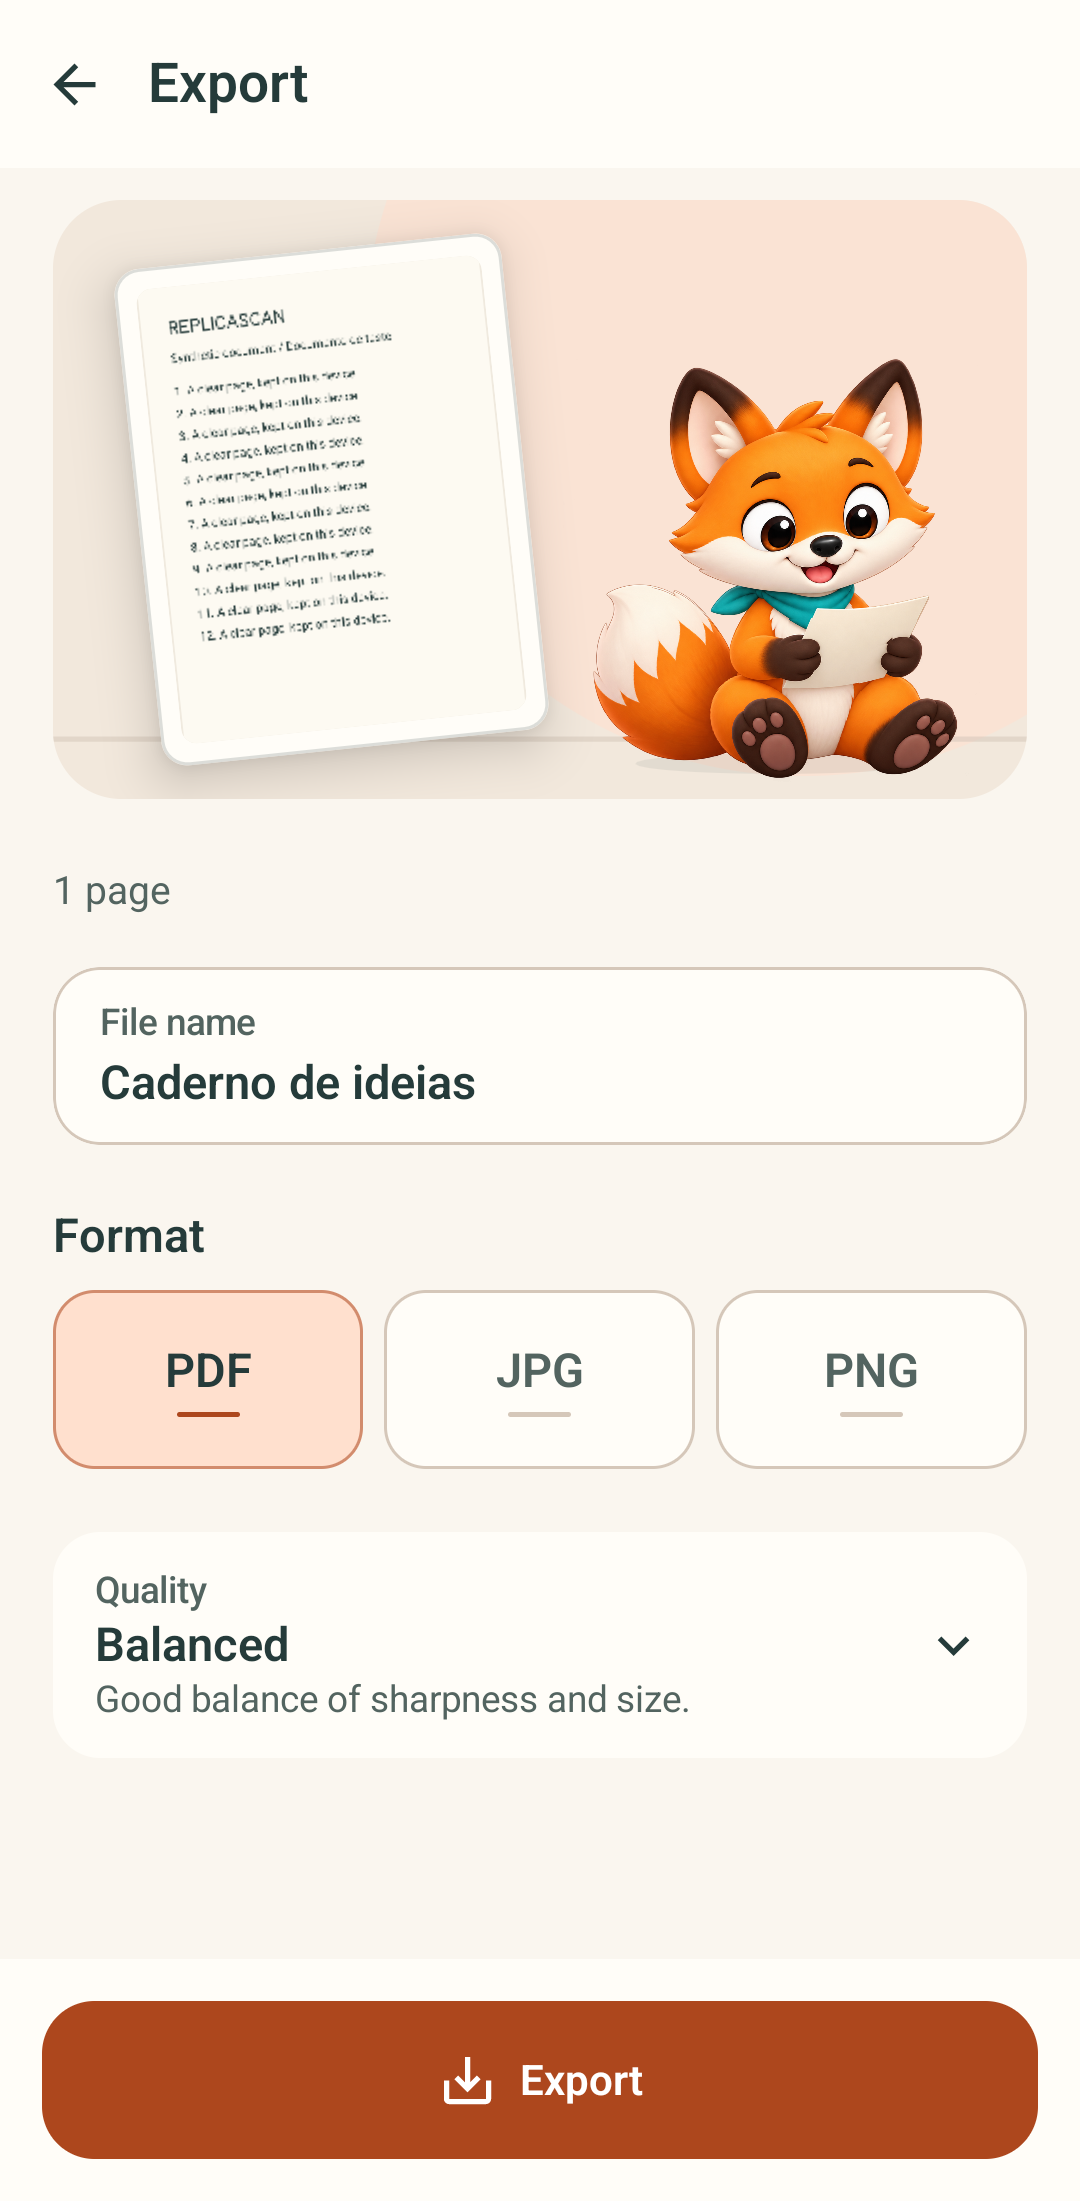
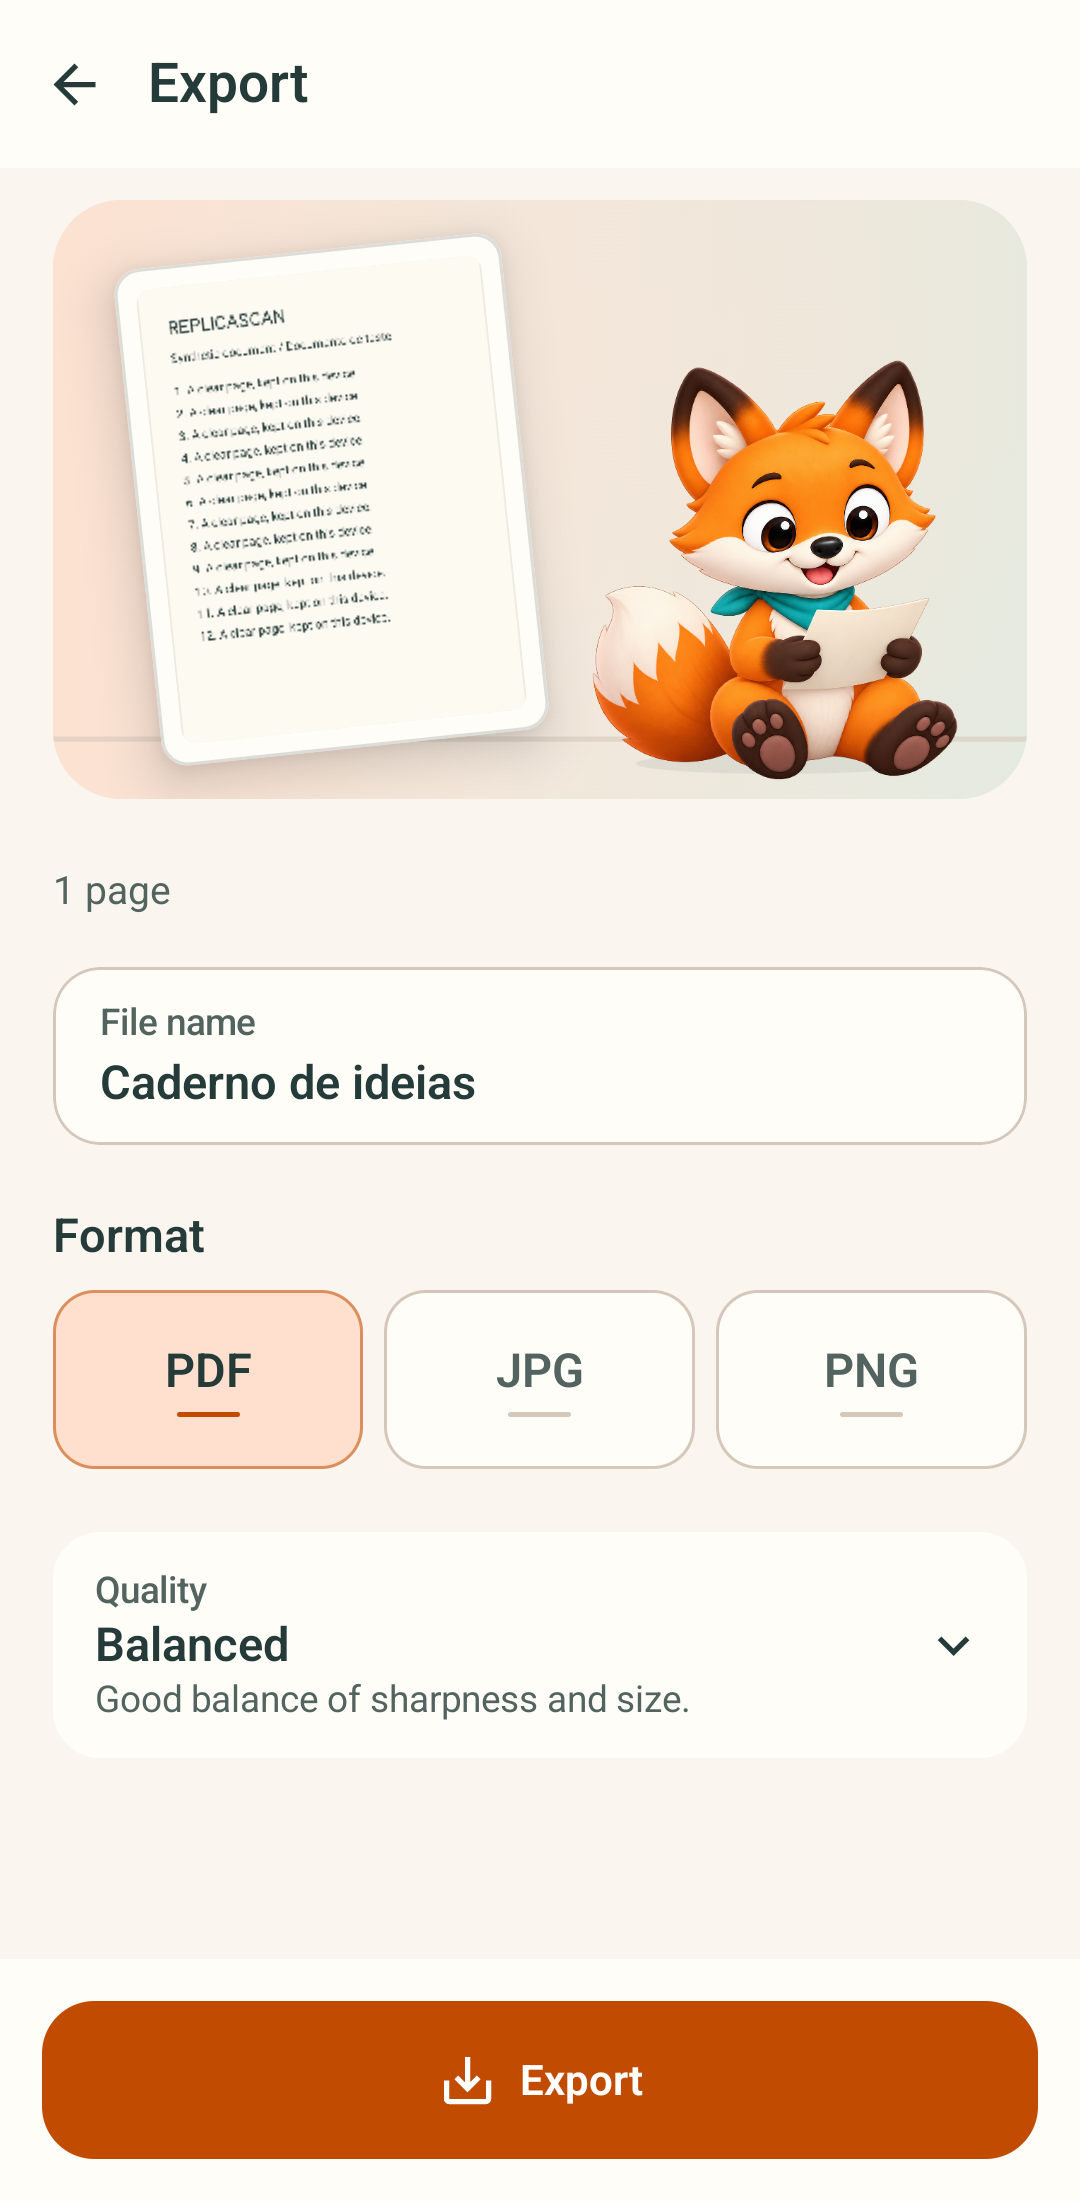
docs(brand): align public surfaces with recovery checkpoint

diff --git a/site/index.html b/site/index.html
@@ -15,7 +15,7 @@
     <header class="hero-shell" id="top">
       <nav class="nav">
         <a class="brand" href="#top">
-          <img class="brand-icon" src="assets/replicascan_icon.svg" alt="" />
+          <img class="brand-icon" src="assets/replicascan_icon.png" alt="" />
           <span>ReplicaScan</span>
         </a>
         <div class="nav-links">
@@ -187,7 +187,7 @@ cd replicascan
           </article>
           <article class="card">
             <h3>Atual</h3>
-            <p>v0.4.1 em desenvolvimento: interface de papel e tinta, rig candidato da raposa, crop sequencial corrigido e recuperação de exportação. Identidade visual e animação ainda aguardam revisão final.</p>
+            <p>v0.4.1 em desenvolvimento: laranja mais vivo com contraste, Home acolhedora, ícone adaptativo teal e exportação acessível em fonte ampliada. A mascote mantém poses inteiras sem recortes defeituosos; o rig articulado final e a qualificação da release ainda estão pendentes.</p>
           </article>
           <article class="card">
             <h3>Próxima</h3>

diff --git a/site/style.css b/site/style.css
@@ -97,6 +97,7 @@ pre {
   width: 38px;
   height: 38px;
   border-radius: 12px;
+  background: #214D47;
   display: block;
 }
 
@@ -191,7 +192,7 @@ h2 {
 }
 
 .button.primary {
-  background: #ad471d;
+  background: #c14b00;
   color: #fff;
 }
 

diff --git a/tools/check_site.py b/tools/check_site.py
@@ -20,7 +20,7 @@ def main() -> int:
         if not (site / value).is_file():
             errors.append(f"missing local site asset: {value}")
     manifest = json.loads((root / "release/manifest.json").read_text(encoding="utf-8"))
-    for expected in ("ReplicaScan", f"Versão {manifest['version']}", "Soturine/replicascan", "replicascan_icon.svg"):
+    for expected in ("ReplicaScan", f"Versão {manifest['version']}", "Soturine/replicascan", "replicascan_icon.png"):
         if expected not in index:
             errors.append(f"missing site metadata: {expected}")
     if errors:

diff --git a/CHANGELOG.md b/CHANGELOG.md
@@ -4,6 +4,9 @@ Este projeto segue Semantic Versioning e recomenda Conventional Commits no fluxo
 
 ## [Unreleased]
 
+- Recuperação de 14/10: laranja primário claro `#C14B00` (4,91:1 com branco) e escuro `#FF8A3D`; Home com iluminação quente e slogan sem texto fixo nos 12 idiomas; Configurações agrupadas em superfícies leves. Exportação em fonte 200% mantém documento e raposa visíveis.
+- Ícone adaptativo opção 4 com fundo teal `#214D47` separa a folha clara do fundo em máscaras Android e 24–108 dp; escolha técnica desta rodada ainda sem QA físico. A contenção atual da mascote preserva poses inteiras e não deve ser descrita como rig de membros independentes. Tag e release v0.4.1 seguem bloqueadas por esse requisito e pela qualificação final.
+
 - Máscaras geométricas da raposa desativadas após confirmação de vazamento de pixels da bandana/corpo na cauda; as poses pintadas permanecem intactas. Respiração e luz agora usam loops contínuos sem `delay`/`snapTo`; teste instrumental verifica movimento após 31 s e remontagem. Articulação anatômica final ainda pendente.
 - Histórico cheio usa linhas contínuas e divisórias leves, preservando miniatura, metadados e toque; a comparação Android com seis documentos substitui a pilha de cartões.
 - Erros do OCR sem texto reconhecido permanecem na tela com ação de repetir; modelo indisponível recebe mensagem própria nos 12 idiomas, em vez de cair no vazio genérico.
@@ -13,7 +16,7 @@ Este projeto segue Semantic Versioning e recomenda Conventional Commits no fluxo
 - Preparo da exportação refinado no Android: nome de arquivo integrado à composição, três formatos em escolhas legíveis, qualidade e tamanho de página revelados sob demanda; estados e callbacks de gravação preservados. Capturas antes/depois e variante escura com fonte 200% foram atualizadas.
 - Corrigida a piscada da raposa na preparação da exportação: a máscara agora cobre o contorno dos olhos abertos sem duplicar traços sobre as pálpebras. Capturas Android de olhos abertos e fechados documentam o resultado.
 - Recuperação visual em andamento após rejeição do redesign anterior: master e poses baseados na raposa da v0.4.0 aprovados como arte estática; movimento e telas ainda pendentes de aceite.
-- Rig Compose candidato articula cabeça, cauda, patas, folha e piscadas em camadas de renderização; a pose de atenção teve patas extras removidas. Clipe Android v2 e frames consecutivos publicados para revisão, ainda sem aceite final do movimento.
+- Um rig Compose candidato tentou articular cabeça, cauda, patas, folha e piscadas recortando pinturas completas; a pose de atenção teve patas extras removidas. O rig foi desativado em 14/10 após confirmar vazamento de pixels e cauda duplicada. Seus clipes são baseline do defeito, não prova da animação corrente.
 - Home recomposta com a raposa diante de uma folha iluminada, botão Escanear mais evidente e estado vazio sem cartão pesado; em fonte 200% a ilustração cede espaço às ações. Capturas nativas claras e escuras atualizadas.
 - Revisão e recorte passam a iluminar a página e dar profundidade ao papel; prévia, quatro alças, gesto e recorte de página inteira mantêm a mesma geometria.
 - Filtros compartilham o mesmo palco de papel da revisão; OCR apresenta todos os parágrafos em uma folha selecionável, preservando cópia e escolha de idioma.
@@ -35,7 +38,7 @@ Este projeto segue Semantic Versioning e recomenda Conventional Commits no fluxo
 
 - Tema claro/escuro de papel marfim, tinta petróleo e terracota; tipografia, superfícies, largura de leitura e botões compartilhados.
 - Onboarding com cenas animadas e voltar/pular; Home, revisão, filtros, OCR, histórico, detalhe, configurações e diálogos alinhados ao tema.
-- Atlas experimental deformado foi rejeitado e substituído no ciclo de recuperação por poses pintadas aprovadas; o rig candidato recorta partes dessas poses em Compose, pausa por lifecycle e respeita redução de movimento.
+- Atlas experimental deformado foi rejeitado e substituído no ciclo de recuperação por poses pintadas aprovadas; o rig de recortes candidato foi desativado. A animação corrente usa poses inteiras, piscada local e pausa pelo lifecycle/redução de movimento.
 - Ícone vetorial com raposa e folha, fundo adaptativo separado e variante monochrome; 12 PNGs antigos de runtime removidos.
 - Exportação com nome validado, formatos visíveis, progresso indeterminado, erro persistente e nomes dos arquivos salvos.
 - Comparação do filtro ao segurar, com retorno ao soltar e alternativa semântica; feedback de pressão no botão principal.

diff --git a/README.md b/README.md
@@ -2,11 +2,13 @@
 
 ![Android](https://img.shields.io/badge/platform-Android-2E7D8C)
 ![Kotlin](https://img.shields.io/badge/Kotlin-2.3.10-23414B)
-![Version](https://img.shields.io/badge/development-0.4.1-AD471D)
+![Version](https://img.shields.io/badge/development-0.4.1-C14B00)
 [![Android CI](https://github.com/Soturine/replicascan/actions/workflows/android-ci.yml/badge.svg)](https://github.com/Soturine/replicascan/actions/workflows/android-ci.yml)
 [![Deploy Pages](https://github.com/Soturine/replicascan/actions/workflows/pages.yml/badge.svg)](https://github.com/Soturine/replicascan/actions/workflows/pages.yml)
 
 ReplicaScan é um scanner Android local-first: escaneia com o ML Kit Document Scanner, guarda as páginas só no aparelho, reconhece texto no próprio dispositivo e exporta PDF pesquisável, JPG ou PNG. A v0.4.1 está em desenvolvimento; a última release de avaliação publicada é a v0.4.0.
+
+Na recuperação de 14/10, Home ganhou um cenário quente e slogan em 12 idiomas, o laranja da ação principal ficou mais vivo e contrastante, Configurações recuperou grupos leves e o ícone adaptativo passou a destacar a folha sobre teal. A animação removeu recortes anatômicos que duplicavam partes da raposa; a pose pintada inteira e a piscada segura continuam enquanto faltam camadas independentes para o rig final. O trabalho segue em teste no Android, sem tag ou release v0.4.1.
 
 - Repositório: <https://github.com/Soturine/replicascan>
 - Releases: <https://github.com/Soturine/replicascan/releases>
